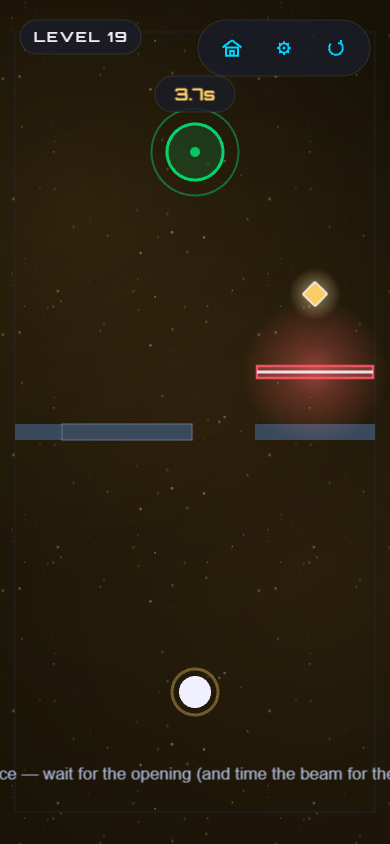
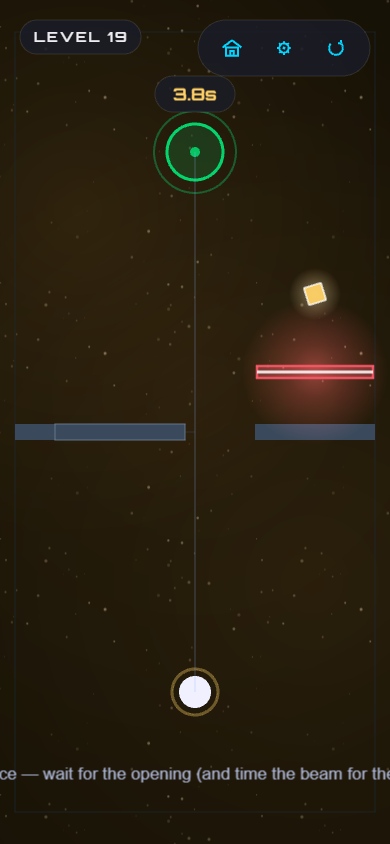
feat(p3-m6): W8 finale excitement pass -- fuse the new dangers into synthesis
Convergence was mostly threat-free synthesis. Fuse the new archetypes into the
finale + add stakes, preserving HOMECOMING's timed-finale archetype:
- level89 THE CONFLUENCE (sig): a spinning arm guards the final rise after the
  confluence rift -- the finale signature's memorable motion moment.
- level87 (fuse-aha): a pulsing beam guards the landing -- time the fused
  repel->rift launch; tightened par 17s->15s.
- level88 (improvise): a saw on EACH route -- improvisation now has stakes on both
  the lift and the rift line; tightened par 17s->15s.
- level58: a saw on the climb after the rift.
HOMECOMING (level90) left intact (the only timed boss; already has saw + clock).

Verify: tsc clean, 67 tests, build clean. verify_p3.py: all 56 load + completable,
archetypes behave, no console errors.

Changed region(s): [[0.4308, 0.1848, 0.5846, 0.8009], [0.3692, 0.0924, 0.6154, 0.2156], [0.7692, 0.3081, 0.8615, 0.3697]]

diff --git a/src/config/levels/level89.ts b/src/config/levels/level89.ts
@@ -17,8 +17,13 @@ export const level89: LevelConfig = {
   portals: [
     { a: { x: 180, y: 420 }, b: { x: 180, y: 200 } }, // the confluence -> near the goal
   ],
+  hazards: [
+    // A spinning arm guards the final rise after the confluence rift — the finale
+    // signature's memorable moment of motion. Emerge, read the spin, slip home.
+    { x: 180, y: 150, radius: 16, pivot: { x: 180, y: 205 }, durationMs: 2600 },
+  ],
   collectible: { x: 300, y: 430 }, // far edge of the right current, off-route
   title:     'THE CONFLUENCE',
-  hint:      'Where the currents meet, the rift waits',
+  hint:      'Where the currents meet the rift waits — then time the spinning arm home',
   parTimeMs: 18000,
 };

diff --git a/src/config/levels/level88.ts b/src/config/levels/level88.ts
@@ -16,7 +16,11 @@ export const level88: LevelConfig = {
   portals: [
     { a: { x: 310, y: 560 }, b: { x: 180, y: 250 } }, // right route: rift to near the goal
   ],
+  hazards: [
+    { x: 30,  y: 250, radius: 16, to: { x: 130, y: 250 }, durationMs: 1100 }, // left route: a saw in the lift
+    { x: 250, y: 600, radius: 16, to: { x: 350, y: 600 }, durationMs: 1100 }, // right route: a saw guarding the rift mouth
+  ],
   collectible: { x: 50, y: 200 }, // top of the updraft (left-route reward)
-  hint:      'More than one way up — pick yours',
-  parTimeMs: 17000,
+  hint:      'More than one way up — and each way bites. Pick yours',
+  parTimeMs: 15000,
 };

diff --git a/src/config/levels/level87.ts b/src/config/levels/level87.ts
@@ -13,7 +13,10 @@ export const level87: LevelConfig = {
   portals: [
     { a: { x: 180, y: 300 }, b: { x: 300, y: 210 } }, // mouth above the repeller -> by the goal
   ],
+  hazards: [
+    { x: 300, y: 175, width: 80, height: 12, pulseMs: 1500 }, // a beam guards the landing — time the fused launch
+  ],
   collectible: { x: 70, y: 250 }, // off-route, far left
-  hint:      'Let the push throw you into the rift',
-  parTimeMs: 17000,
+  hint:      'Let the push throw you into the rift — then time the beam to home',
+  parTimeMs: 15000,
 };

diff --git a/src/config/levels/level58.ts b/src/config/levels/level58.ts
@@ -14,7 +14,10 @@ export const level58: LevelConfig = {
   portals: [
     { a: { x: 90, y: 560 }, b: { x: 300, y: 300 } },
   ],
+  hazards: [
+    { x: 300, y: 230, radius: 18, to: { x: 220, y: 230 }, durationMs: 1100 }, // a saw on the climb after the rift
+  ],
   collectible: { x: 90, y: 300 }, // off-route, upper-left
-  hint:      'Rift past the push to the goal',
+  hint:      'Rift past the push — then time the saw to the goal',
   parTimeMs: 17000,
 };
